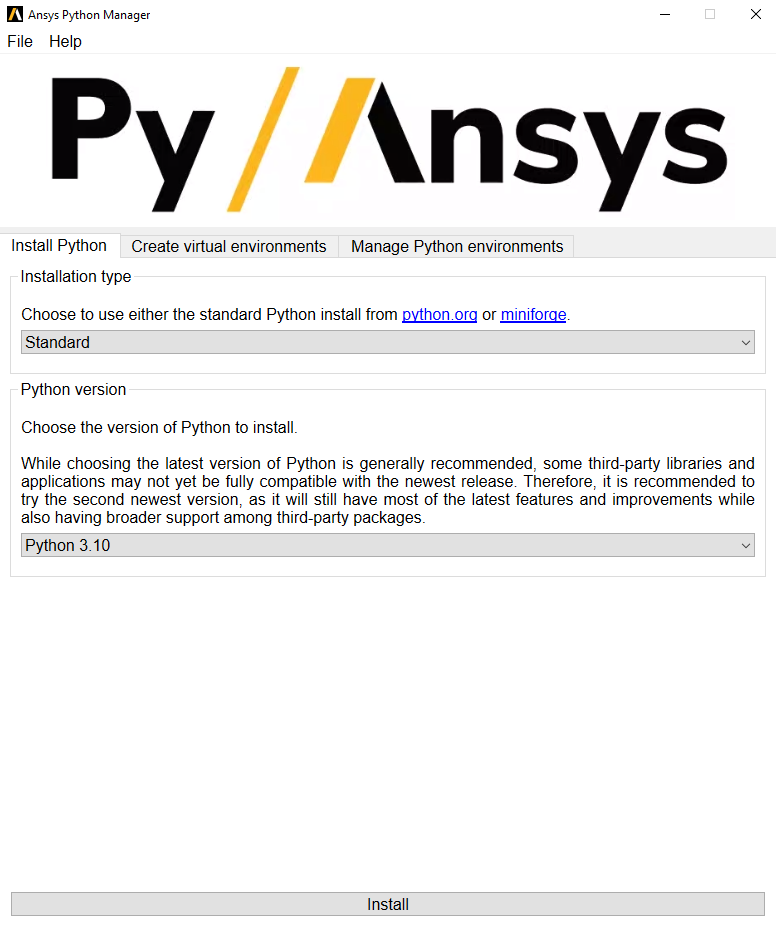
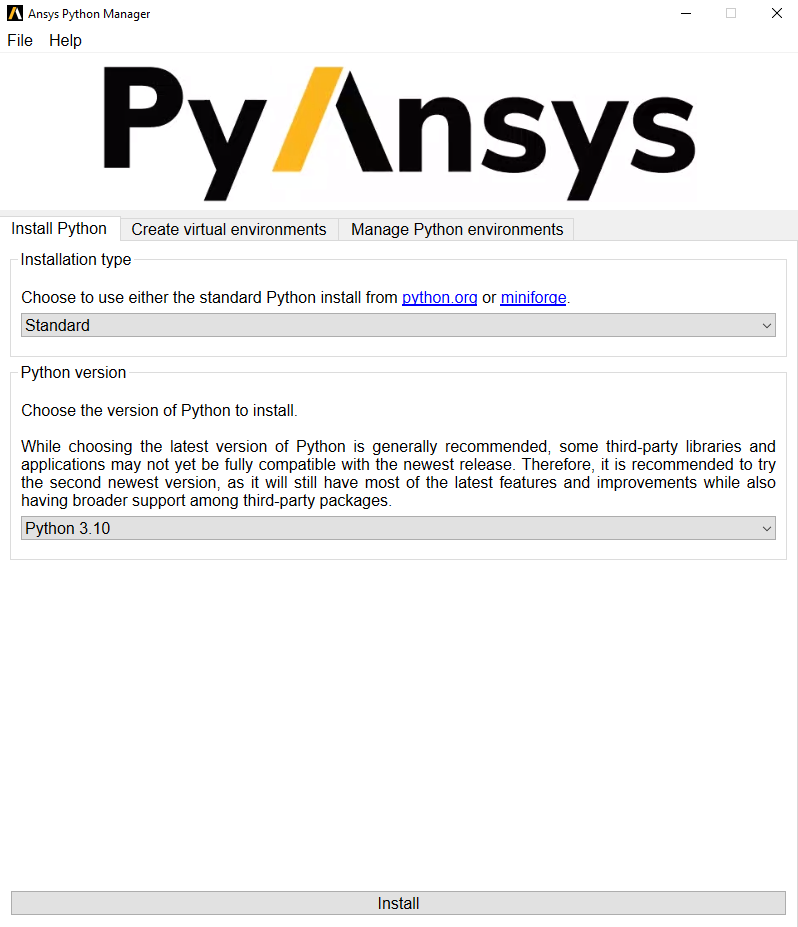
FEAT: Update images

Changed region(s): [[0.0, 0.0, 1.0, 1.0], [0.8969, 0.0, 0.9278, 0.0302]]

diff --git a/src/ansys/tools/installer/main.py b/src/ansys/tools/installer/main.py
@@ -103,7 +103,7 @@ class AnsysPythonInstaller(QtWidgets.QMainWindow):
 
         # Header icon
         self.menu_heading = ImageWidget()
-        pixmap = QtGui.QPixmap(os.path.join(ASSETS_PATH, "pyansys-light-crop.png"))
+        pixmap = QtGui.QPixmap(os.path.join(ASSETS_PATH, "pyansys-light.png"))
         self.menu_heading.setPixmap(pixmap)
         header_layout.addWidget(self.menu_heading)
 
